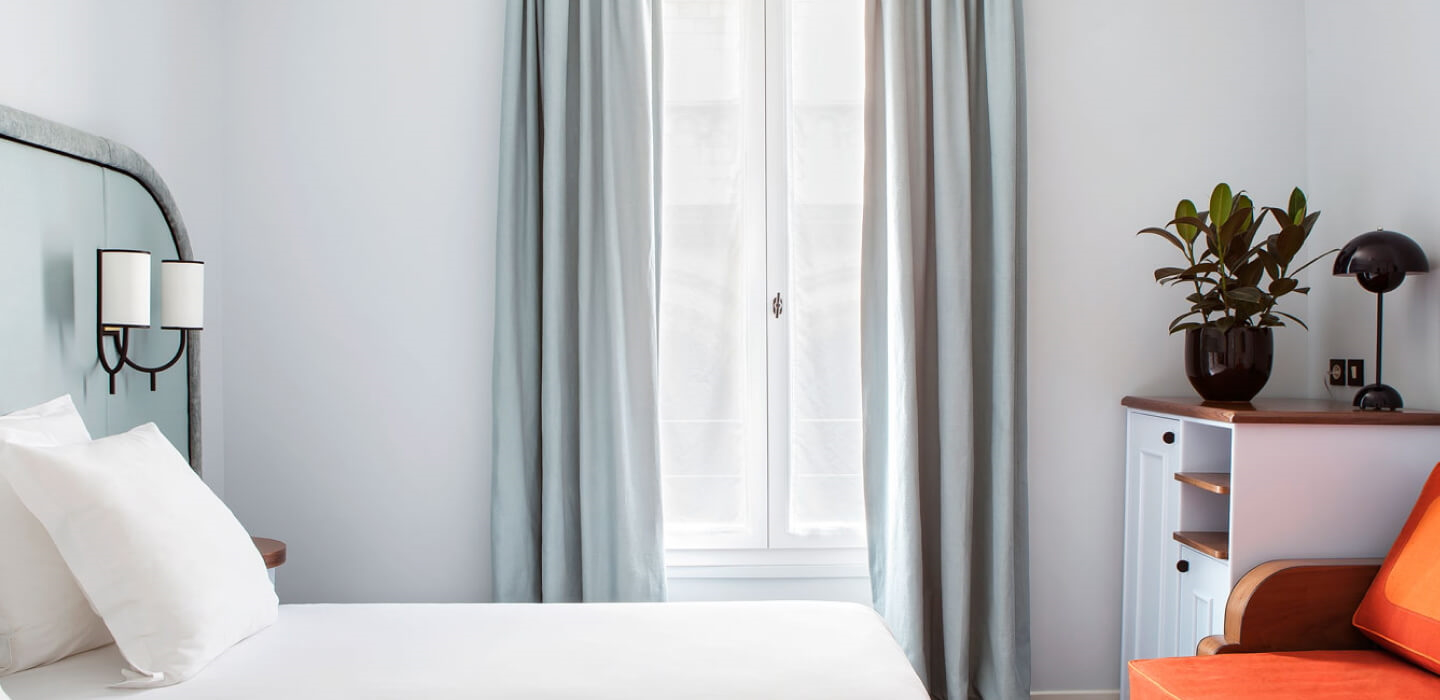
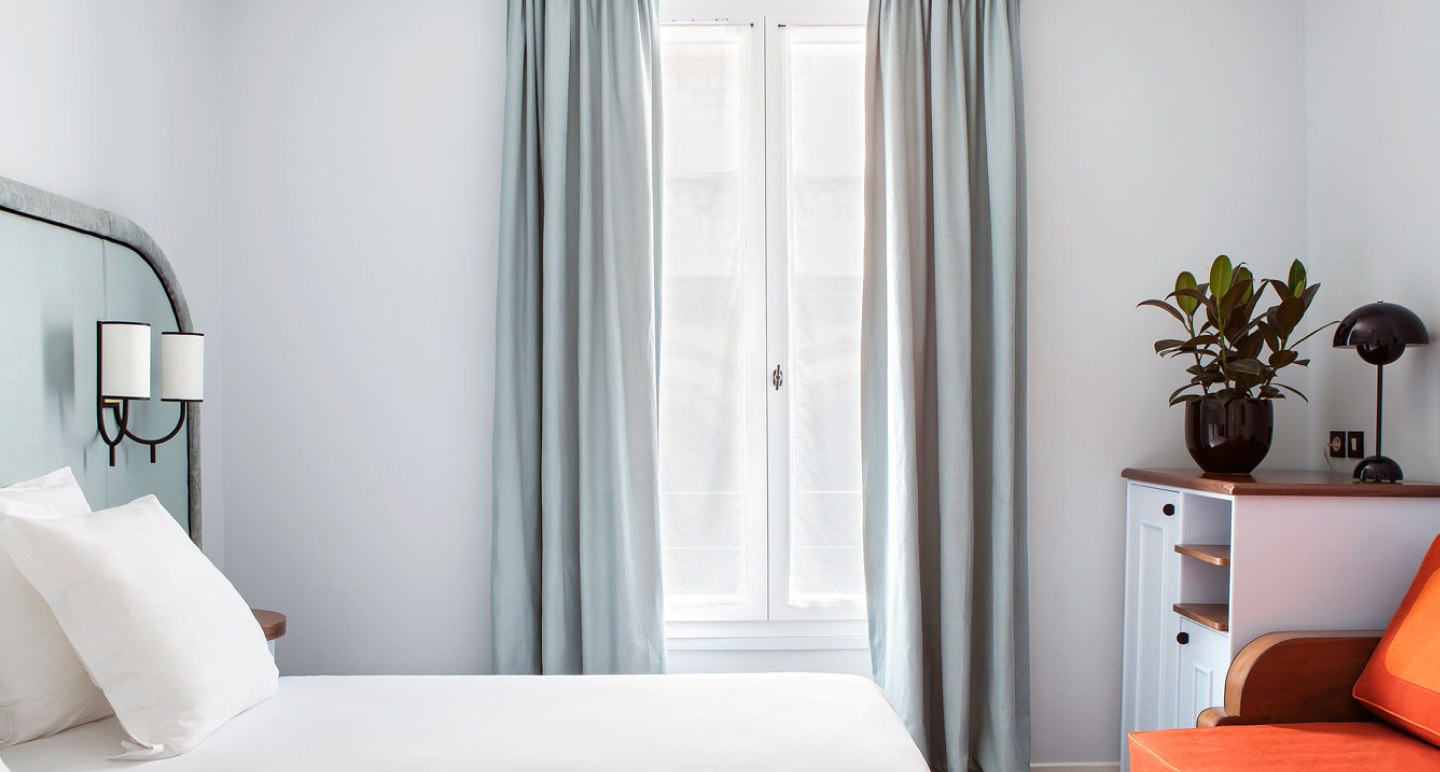
Fixed PerfectPixel #25 #26

diff --git a/src/components/login/login.scss b/src/components/login/login.scss
@@ -3,7 +3,7 @@
   border: 1px solid rgba(0, 0, 0, 0.12);
   box-shadow: 0px 0px 25px rgba(0, 0, 0, 0.2);
   border-radius: 4px;
-  padding: 30px;
+  padding: 30px 30px 30px 28px;
   max-width: 380px;
   width: 100%;
   position: relative;
@@ -26,26 +26,26 @@
 
   &__header {
     @include font-h1;
-    margin: 10px 0 0;
+    margin: 11px 0 0;
   }
 
   &__credentials {
     @include fieldset-reset-style;
-    margin-top: 17px;
+    margin-top: 16px;
   }
 
   &__password {
-    margin-top: 5px;
+    margin-top: 6px;
   }
 
   &__login-button {
-    margin-top: 20px;
+    margin-top: 19px;
     display: flex;
     justify-content: center;
   }
 
   &__go-to-registration {
-    margin-top: 30px;
+    margin-top: 29px;
     display: flex;
     justify-content: space-between;
     align-items: center;

diff --git a/src/components/registration/registration.scss b/src/components/registration/registration.scss
@@ -5,7 +5,7 @@
   border-radius: 4px;
   max-width: 380px;
   width: 100%;
-  padding: 30px;
+  padding: 30px 28px 30px 29px;
   position: relative;
 
   &__error-message {
@@ -23,12 +23,12 @@
   &__header {
     @include font-h1;
     margin: 0;
-    margin-top: 10px;
+    margin-top: 12px;
   }
 
   &__name-surname {
     @include fieldset-reset-style;
-    margin-top: 16px;
+    margin-top: 15px;
   }
 
   &__surname {
@@ -36,11 +36,11 @@
   }
 
   &__radiobuttons {
-    margin-top: 12px;
+    margin-top: 10px;
   }
 
   &__birth-date {
-    margin-top: 22px;
+    margin-top: 25px;
   }
 
   &__credentials {
@@ -57,11 +57,11 @@
   }
 
   &__special-offer {
-    margin-top: 11px;
+    margin-top: 9px;
   }
 
   &__search {
-    margin-top: 23px;
+    margin-top: 24px;
   }
 
   &__go-to-login {

diff --git a/src/components/date-dropdown/date-dropdown.scss b/src/components/date-dropdown/date-dropdown.scss
@@ -172,7 +172,7 @@
   &__input {
     @include font-body;
     cursor: pointer;
-    padding: 8px 0;
+    padding: 7px 0 9px;
     text-indent: 12px;
     border-radius: 5px;
     border: 1px solid $colorBorder;
@@ -197,8 +197,8 @@
 
       &::after {
         @include tip-style;
-        right: 19px;
-        bottom: 18px;
+        right: 18px;
+        bottom: 20px;
       }
 
       &_expanded {
@@ -246,8 +246,15 @@
       display: none;
     }
 
+    &::-webkit-datetime-edit-day-field,
+    &::-webkit-datetime-edit-month-field,
+    &::-webkit-datetime-edit-year-field,
+    &::-webkit-datetime-edit-text {
+      padding: 0;
+    }
+
     &[type="date"] {
-      text-indent: 6px;
+      text-indent: 7px;
     }
   }
 

diff --git a/src/pages/registration-page/registration-page.scss b/src/pages/registration-page/registration-page.scss
@@ -1,12 +1,12 @@
 .registration-page {
-  @include page-background('@pag/registration-page/image/bedroom.jpg');
+  @include page-background("@pag/registration-page/image/bedroom.jpg", -70px);
   flex-grow: 1;
-  min-height: 686px;
+  min-height: 683px;
   display: grid;
   align-items: center;
 
-    &__registration-wrapper{
-      display: flex;
-      justify-content: center;
-    }
+  &__registration-wrapper {
+    display: flex;
+    justify-content: center;
+  }
 }

diff --git a/src/pages/sign-in-page/sign-in-page.scss b/src/pages/sign-in-page/sign-in-page.scss
@@ -1,12 +1,12 @@
 .sign-in-page {
-  @include page-background('@pag/sign-in-page/image/bedroom.jpg');
+  @include page-background("@pag/sign-in-page/image/bedroom.jpg", -70px);
   flex-grow: 1;
-  min-height: 700px;
+  min-height: 701px;
   display: grid;
   align-items: center;
 
-    &__login-wrapper{
-      display: flex;
-      justify-content: center;
-    }
+  &__login-wrapper {
+    display: flex;
+    justify-content: center;
+  }
 }

diff --git a/src/assets/styles/global.scss b/src/assets/styles/global.scss
@@ -144,8 +144,9 @@ $fontMain: "Montserrat", Arial, Helvetica, sans-serif;
   top: 1px;
 }
 
-@mixin page-background($imagePath) {
+@mixin page-background($imagePath, $imageShift) {
   background: url($imagePath) no-repeat center;
+  background-position: 0 $imageShift;
 }
 
 @mixin font-h1() {

diff --git a/src/pages/landing-page/landing-page.scss b/src/pages/landing-page/landing-page.scss
@@ -1,5 +1,5 @@
 .landing-page {
-  @include page-background("@pag/landing-page/image/living-room.jpg");
+  @include page-background("@pag/landing-page/image/living-room.jpg", -70px);
   width: 100%;
   flex-grow: 1;
 

diff --git a/src/components/radiobuttons/radiobuttons.scss b/src/components/radiobuttons/radiobuttons.scss
@@ -55,7 +55,8 @@
       margin: 0;
       cursor: pointer;
       line-height: 15px;
-      padding-left: 10px;
+      padding-top: 2px;
+      padding-left: 9px;
       flex-shrink: 10;
     }
   }
